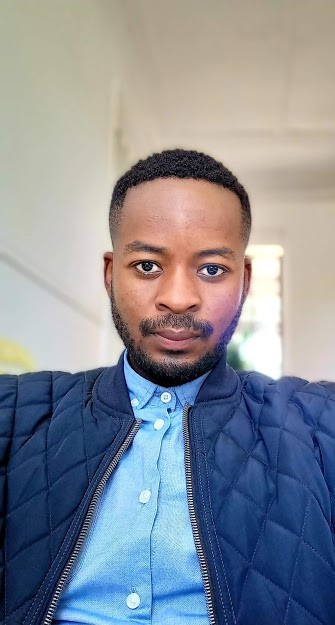
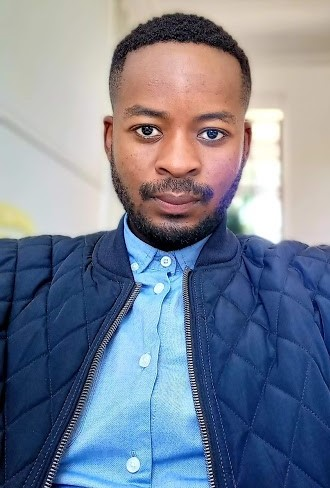
updated

diff --git a/assets/css/main.css b/assets/css/main.css
@@ -2324,5 +2324,5 @@ color: white;
 			font-family: 'Courier New', monospace;
 			color: white;
 					} #my-img {
-						border-radius: 20%;
+						border-radius: 100%;
 					  }
